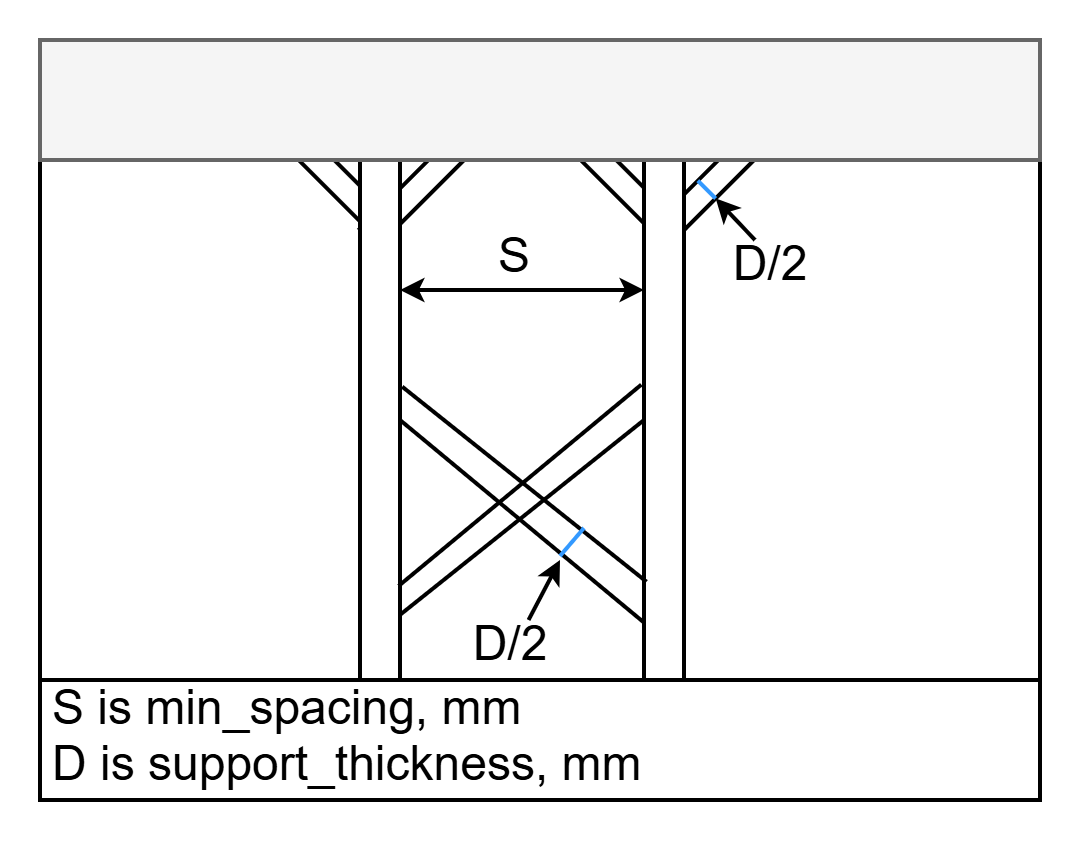
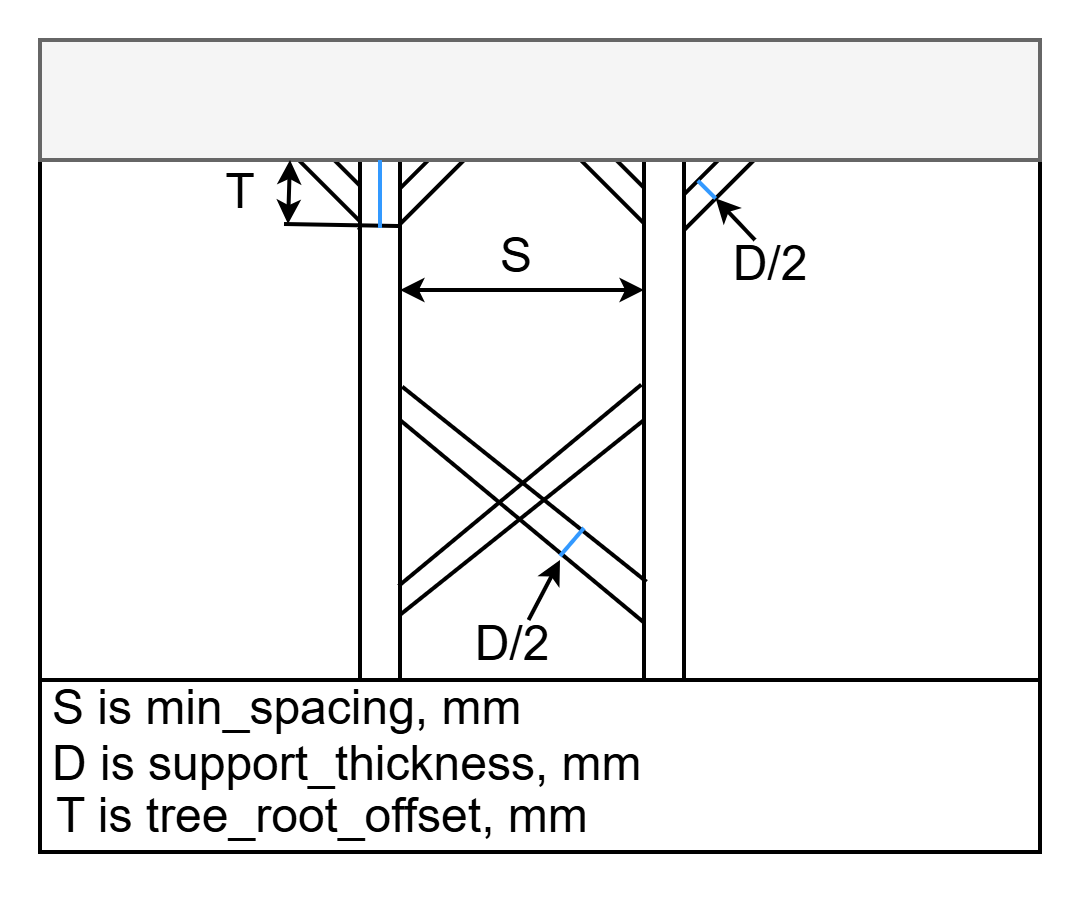
adding tree_root_offset

diff --git a/supports_6.py b/supports_6.py
@@ -446,9 +446,15 @@ def build_support_cylinders(supports_info, support_sections=8):
     return trimesh.util.concatenate(cylinders)
 
 
+CONNECTION_PATTERNS = {
+    "default": "default", 
+    "spirally": "spirally",
+    "parallely_x": "parallely_x",
+    "parallely_y": "parallely_y"
+}
 def create_support_lines(base_points, groups, supports_info, model_mesh,
                         thickness=0.2, max_distance=5.0, min_height=1.0,
-                        height_multiplier=2.0, spirally=False, support_sections=8):
+                        height_multiplier=2.0, spirally=False, support_sections=8, break_connection_distance=10):
     print("create_support_lines")
     def create_marker_sphere(position, radius, color):
         
@@ -707,6 +713,9 @@ def create_support_lines(base_points, groups, supports_info, model_mesh,
             a, b = group[i], group[i+1]
             p1, p2 = base_points[a], base_points[b]
             dist_xy = np.linalg.norm(p1[:2] - p2[:2])
+            if(dist_xy>break_connection_distance):
+                continue
+
             required_height = dist_xy * height_multiplier
             
             # If we'd like to connect all points then we should put required_height=0
@@ -898,9 +907,11 @@ def main():
         params = json.load(file)
     
     get_param = lambda prop, default_value: get_obj_prop(params, prop, default_value) 
-    file_path = get_param("file_path", "cat.stl")
+    file_path = os.path.join(os.path.dirname(__file__), get_param("file_path", "cat.stl"))
     spirally_pattern = get_param("spirally_pattern", True)
     min_spacing = get_param("min_spacing", 0.7)
+    break_connection_distance = get_param("break_connection_distance", 10)
+    tree_root_offset = get_param("tree_root_offset", 1.0)
     support_thickness = get_param("support_thickness", 0.2)
     support_cylinder_sections = get_param("support_cylinder_sections", 8)
     support_tree_sections = get_param("support_tree_sections", 6)
@@ -932,8 +943,8 @@ def main():
                 groups = np.array([sorted_ids_spirally]) 
         
             supports = build_support_cylinders(supports_info, support_cylinder_sections)
-            support_lines = create_support_lines(base_points_array, groups, supports_info, model, thickness=support_thickness, min_height=1.0, spirally=spirally_pattern, support_sections=support_cylinder_sections)
-            tree_supports = generate_tree_supports(base_points_array, supports_info, groups, model, thickness=support_thickness, support_sections=support_tree_sections, support_subdivisions=support_joint_subdivisions)
+            support_lines = create_support_lines(base_points_array, groups, supports_info, model, thickness=support_thickness, min_height=1.0, spirally=spirally_pattern, support_sections=support_cylinder_sections, break_connection_distance=break_connection_distance)
+            tree_supports = generate_tree_supports(base_points_array, supports_info, groups, model, thickness=support_thickness, support_sections=support_tree_sections, support_subdivisions=support_joint_subdivisions, offset=tree_root_offset)
 
             if supports:
                 # Пути для сохранения только опор

diff --git a/README.md b/README.md
@@ -39,6 +39,8 @@ Launching parameters in json file:
 | file_path        | str    | relative path from the root to a stl file for generating supports | cat.stl |
 | spirally_pattern | bool | true if it needs to connect supports spirally | true |
 | min_spacing | float | the min distance between two support points | 0.7 |
+| break_connection_distance | float | it prevents planned connection if its distance (Oxy) exceeds this value | 10 |
+| tree_root_offset | float | the offset between a start of tree branch and a surface | 1.0 |
 | support_thickness | float | the thickness of cylinder supports | 0.2 |
 | support_cylinder_sections | int | quality of cylinder supports (the less value, the less memory it takes) | 8 |
 | support_tree_sections | int | quality of tree supports | 6 |
